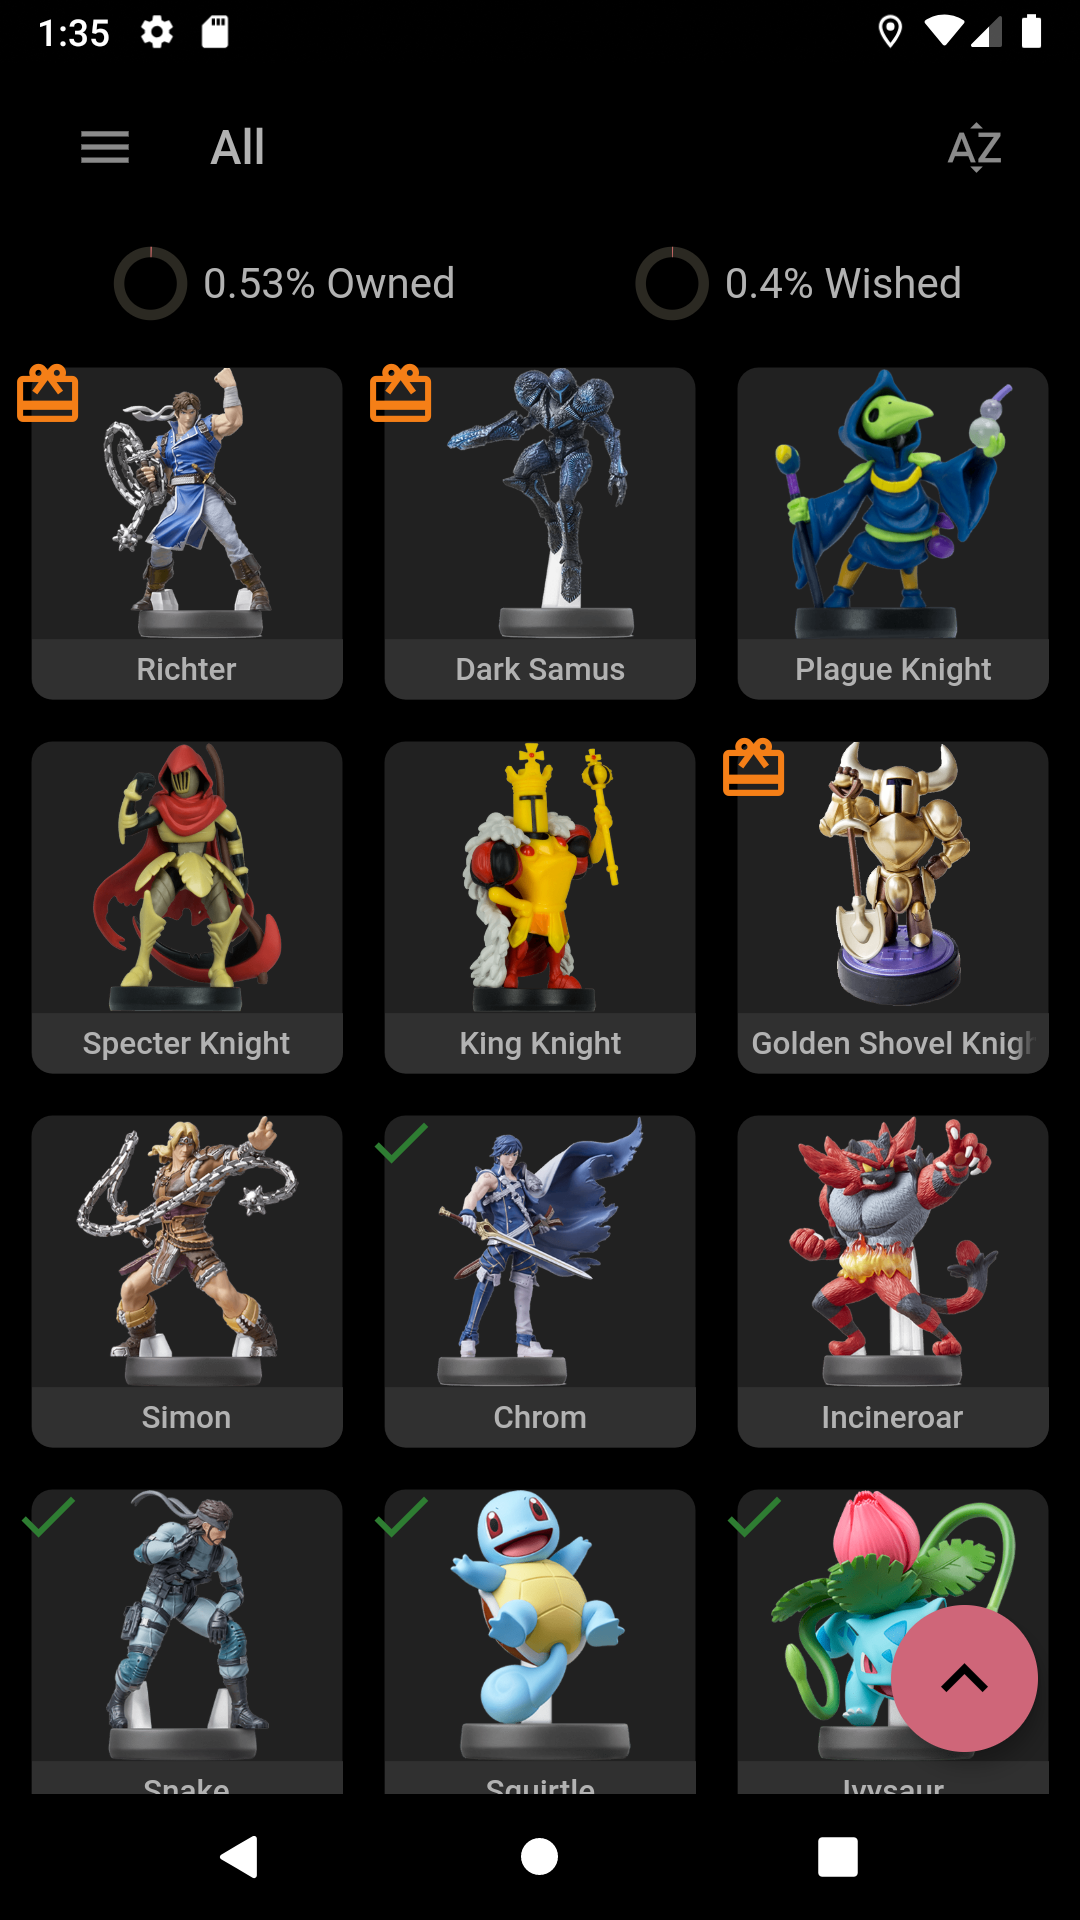
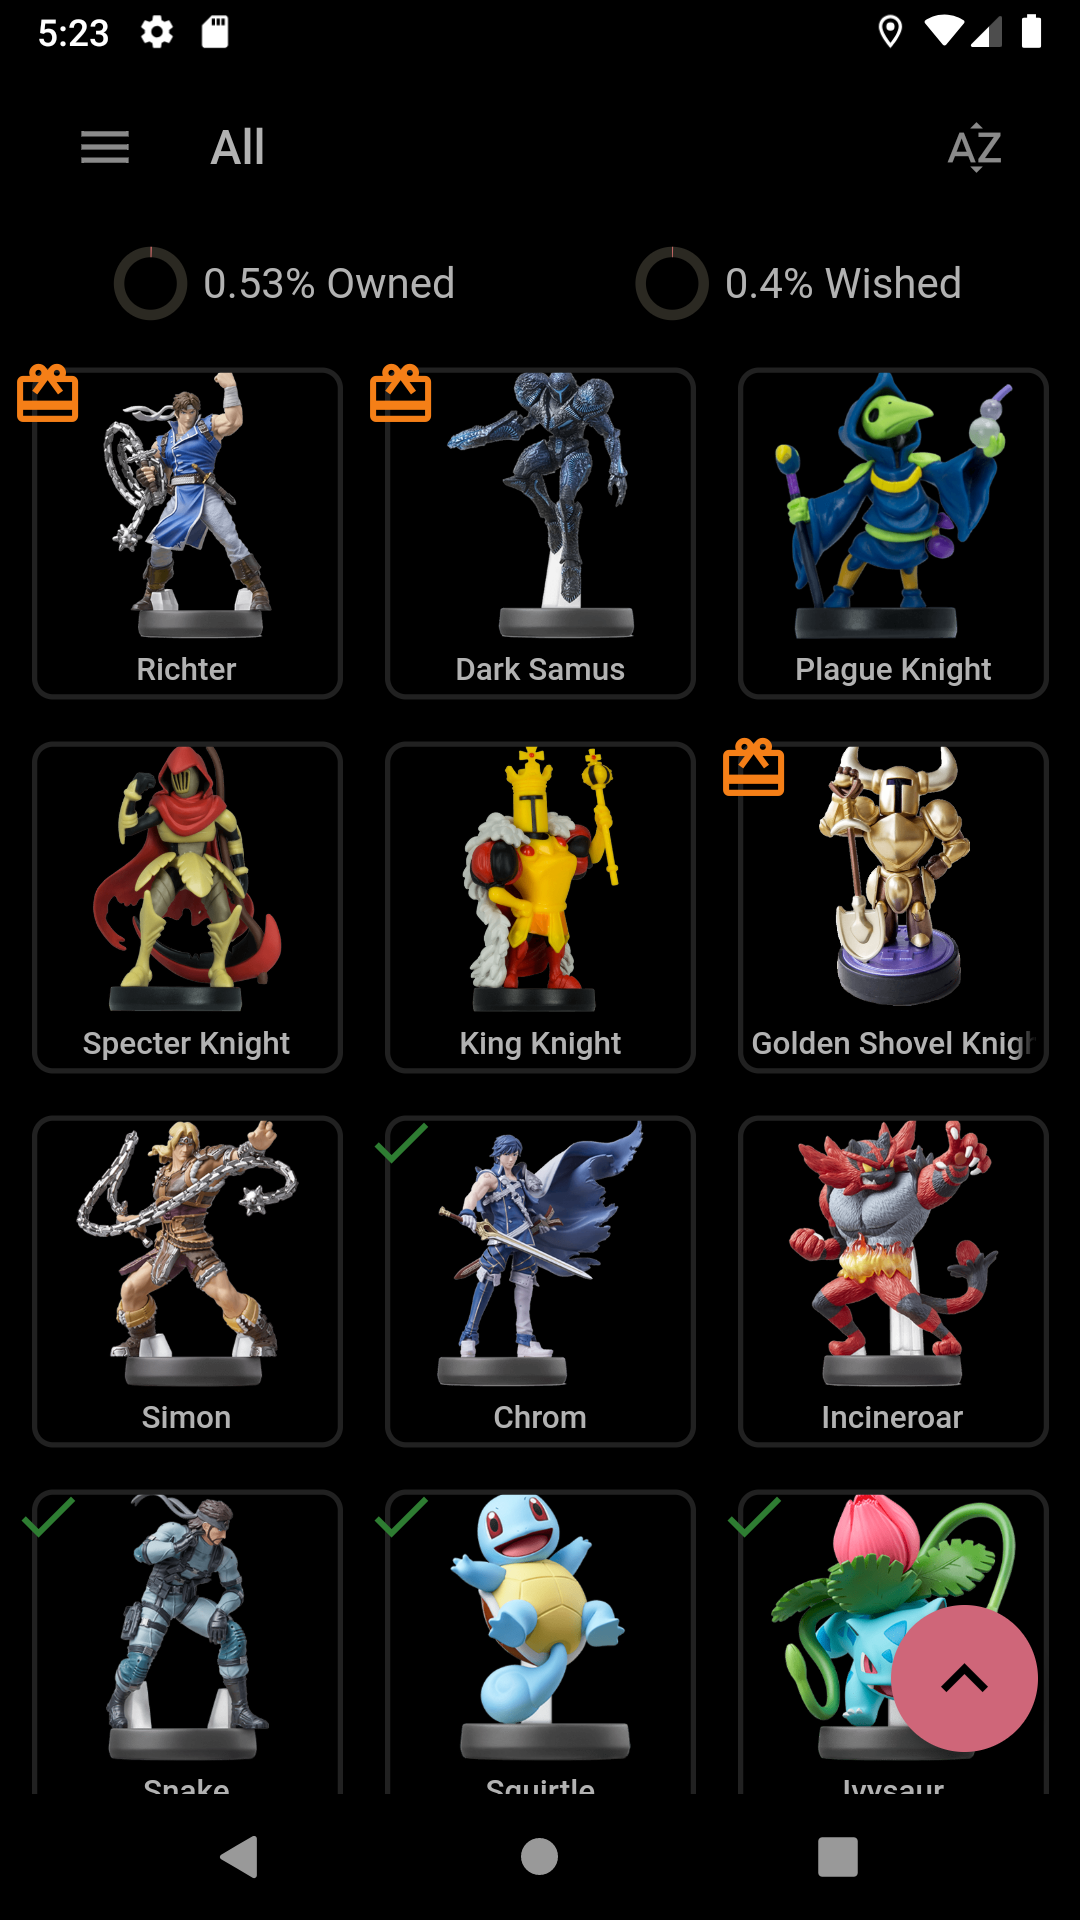
- Updated Screenshots Dark Mode

diff --git a/lib/screen/settings_screen.dart b/lib/screen/settings_screen.dart
@@ -244,8 +244,13 @@ class _SaveCollectionState extends State<_SaveCollection> {
       ));
       final ByteData imageAsset = await rootBundle.load(strImage);
 
-      canvas.drawPath(cardPath, amiibo?.owned?.isOdd ?? false ? ownedCardPaint :
-      amiibo?.wishlist?.isOdd ?? false ? wishedCardPaint : unselectedCardPaint);
+      //canvas.drawPath(cardPath, amiibo?.owned?.isOdd ?? false ? ownedCardPaint :
+      //amiibo?.wishlist?.isOdd ?? false ? wishedCardPaint : unselectedCardPaint);
+
+      if((amiibo?.owned?.isOdd ?? false) || (amiibo?.wishlist?.isOdd ?? false)){
+        canvas.drawPath(cardPath,
+          amiibo?.owned?.isOdd ?? false ? ownedCardPaint : wishedCardPaint);
+      }
 
       ui.Image _image = await ui.instantiateImageCodec(
         imageAsset.buffer.asUint8List(),
